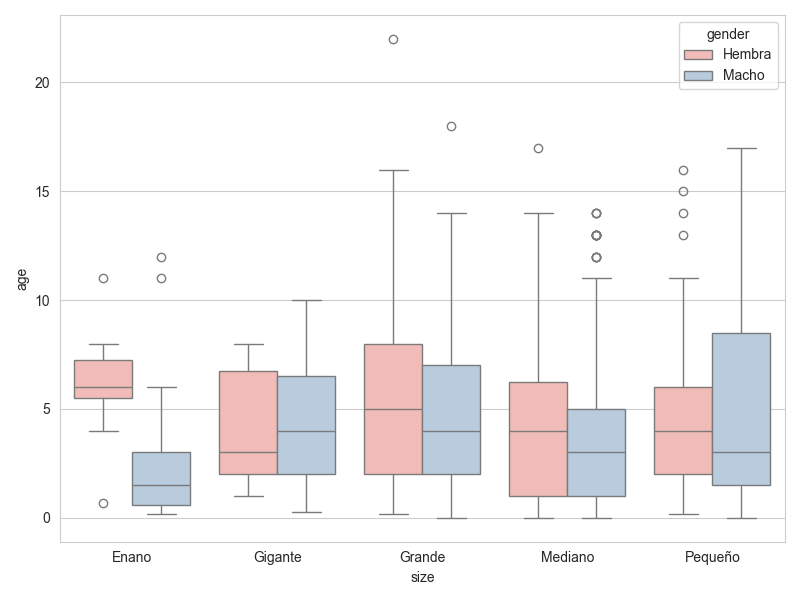
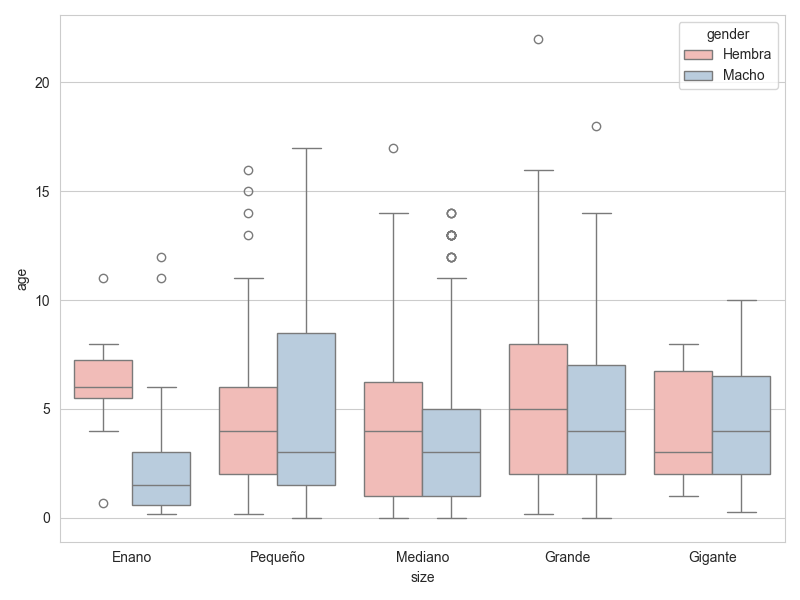
Fix boxplot order

diff --git a/pages/eda.py b/pages/eda.py
@@ -165,6 +165,8 @@ def show_age_size_gender_boxplot():
         x="size",
         y="age",
         hue="gender",
+        hue_order=["Hembra", "Macho"],
+        order=["Enano", "Pequeño", "Mediano", "Grande", "Gigante"],
         palette=sns.color_palette("Pastel1", n_colors=2),
         data=st.session_state.dogs_df.loc[(st.session_state.dogs_df["age"] < 50)],
         ax=ax,
